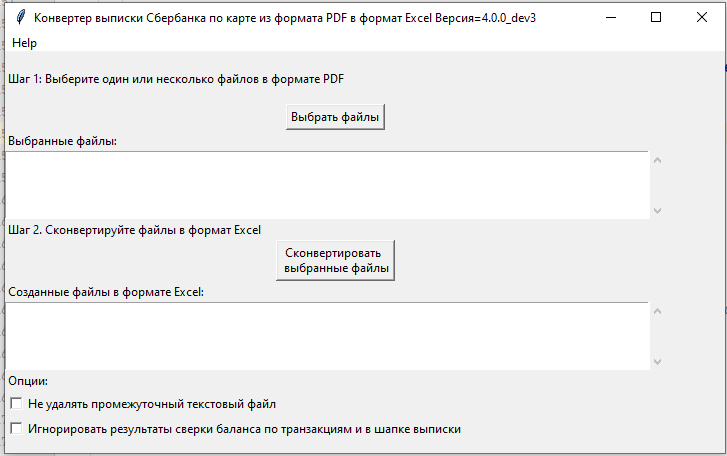
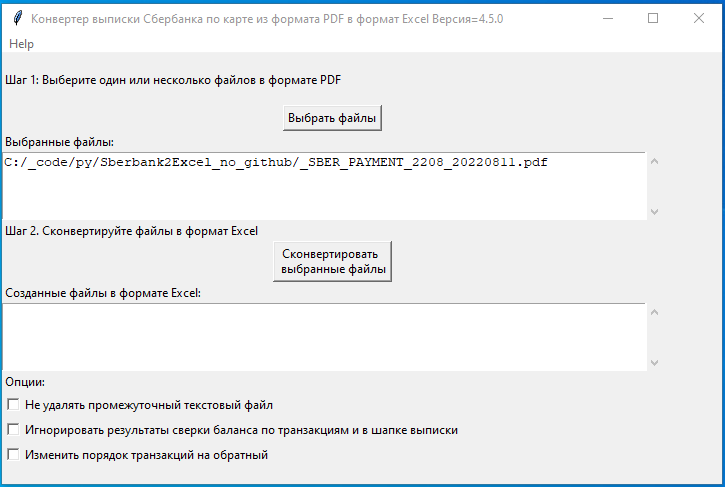
Added functionality "reverse transaction order": 	modified:   README.rst 	modified:   core/sberbankPDF2Excel.py 	modified:   core/sberbankPDF2ExcelGUI.py 	modified:   core/sberbankPDFtext2Excel.py 	modified:   core/version_info.py 	modified:   misc/Sberbank2Excel.PNG

Changed region(s): [[0.0, 0.0, 1.0, 1.0], [0.3641, 0.4912, 0.5462, 0.6447]]

diff --git a/core/sberbankPDFtext2Excel.py b/core/sberbankPDFtext2Excel.py
@@ -43,11 +43,24 @@ def sberbankPDFtext2Excel(input_txt_file_name:str,
                           output_file_name:str = None,
                           format = 'auto',
                           perform_balance_check = True,
-                          output_file_type='xlsx') -> str:
-    """
-    Функция конвертирует текстовый файл Сбербанка, полученный из выписки PDF в Excel или CSV форматы
-    Если output_file_name не задан, то он создаётся из input_txt_file_name путём удаления расширения
-    return: file name of the created file
+                          output_file_type='xlsx',
+                          reversed_transaction_order=False) -> str:
+    """ Функция конвертирует текстовый файл Сбербанка, полученный из выписки PDF в Excel или CSV форматы
+        Если output_file_name не задан, то он создаётся из input_txt_file_name путём удаления расширения
+
+    Args:
+        input_txt_file_name (str): имя входного текстового файла
+        output_file_name (str, optional): имя выходного файла. Defaults to None.
+        format (str, optional): формат входного файла. Defaults to 'auto'.
+        perform_balance_check (bool, optional): Проводить сверку баланса по трансакциям и по шапке. Defaults to True.
+        output_file_type (str, optional): Тип выходного файла. Defaults to 'xlsx'.
+        reversed_transaction_order (bool, optional): Изменить порядок трансакций на обратный. Defaults to False.
+
+    Raises:
+        exceptions.UserInputError: 
+
+    Returns:
+        str: file name of the created file
     """
 
     # creating output file name for Excel file, if not provided
@@ -65,6 +78,7 @@ def sberbankPDFtext2Excel(input_txt_file_name:str,
         extractor_type = determine_extractor_auto(file_text)
         print(r"Формат файла определён как " + extractor_type.__name__)
 
+    # checking whether format is one of the known formats
     else:
         for extractor in extractors.extractors_list:
             if extractor.__name__ == format:
@@ -109,21 +123,14 @@ def sberbankPDFtext2Excel(input_txt_file_name:str,
 
     df = utils.rename_sort_df(df = df,
                               columns_info=extractor.get_columns_info())
+    
+    if reversed_transaction_order:
+        df = df.iloc[::-1]  # reversing the order of transactions
 
     utils.write_df_to_file(df, output_file_name,
-                            extractor_name = extractor_type.__name__,
+                            extractor_name=extractor_type.__name__,
                             errors=error,
                             output_file_format=output_file_type)
-
-
-    # writer = pd.ExcelWriter(output_excel_file_name,
-    #                         engine='xlsxwriter',
-    #                         datetime_format='dd.mm.yyyy HH:MM')
-    #
-    # df.to_excel(writer, sheet_name='data', index=False)
-    #
-    # writer.save()
-    # writer.close()
 
     # print(f"Создан файл {output_file_name}")
 
@@ -141,6 +148,7 @@ def genarate_PDFtext2Excel_argparser()->argparse.ArgumentParser:
     parser.add_argument('-b','--balcheck', action='store_false', default=True, dest='perform_balance_check', help='Игнорировать результаты сверки баланса по транзакциям и в шапке выписки')
     parser.add_argument('-f', '--format', type=str,default='auto', dest='format', choices = extractors.get_list_extractors_in_text(),help = 'Формат выписки. Если не указан, определяется автоматически' )
     parser.add_argument('-t', '--type', type=str,default='xlsx', dest='output_file_type', choices = ["xlsx","csv"],help = 'Тип создаваемого файла' )
+    parser.add_argument('-r', '--reverse', action='store_true', default=False, dest='reversed_transaction_order', help='Изменить порядок транзакций на обратный')
 
     return parser
 
@@ -157,7 +165,8 @@ def main():
                           output_file_name = args.output_Excel_file_name,
                           format=args.format,
                           perform_balance_check = args.perform_balance_check,
-                          output_file_type=args.output_file_type)
+                          output_file_type=args.output_file_type,
+                          reversed_transaction_order=args.reversed_transaction_order)
 
 
 if __name__=='__main__':

diff --git a/core/sberbankPDF2Excel.py b/core/sberbankPDF2Excel.py
@@ -17,13 +17,24 @@ def sberbankPDF2Excel(input_file_name:str,
                       format:str= 'auto',
                       leave_intermediate_txt_file:str = False,
                       perform_balance_check = True,
-                      output_file_type:str="xlsx") ->str:
-    """
-    function converts pdf or text file with Sperbank extract to Excel or CSV format
-    input_file_name:
-    output_excel_file_name:
-    format: str - format of the Sberbank extract. If "auto" then tool tryes to work out the format itself
-    leave_intermediate_txt_file: if True, does not delete intermediate txt file
+                      output_file_type:str="xlsx",
+                      reversed_transaction_order=True) ->str:
+    """function converts pdf or text file with Sperbank extract to Excel or CSV format
+
+    Args:
+        input_file_name (str): _description_
+        output_file_name (Union[str, None], optional): _description_. Defaults to None.
+        format (str, optional): _description_. Defaults to 'auto'.
+        leave_intermediate_txt_file (str, optional): _description_. Defaults to False.
+        perform_balance_check (bool, optional): _description_. Defaults to True.
+        output_file_type (str, optional): _description_. Defaults to "xlsx".
+        reversed_transaction_order (bool, optional): _description_. Defaults to True.
+
+    Raises:
+        exceptions.InputFileStructureError: _description_
+
+    Returns:
+        str: file name of the created file
     """
 
     print(f"{format=}")
@@ -52,11 +63,12 @@ def sberbankPDF2Excel(input_file_name:str,
         if extension == ".pdf":
             pdf_2_txt_file(input_file_name, tmp_txt_file_name)
 
-        result = sberbankPDFtext2Excel(tmp_txt_file_name,
-                                       output_file_name,
-                                       format=format,
-                                       perform_balance_check = perform_balance_check,
-                                       output_file_type=output_file_type)
+        created_file_name = sberbankPDFtext2Excel(tmp_txt_file_name,
+                                                  output_file_name,
+                                                  format=format,
+                                                  perform_balance_check = perform_balance_check,
+                                                  output_file_type=output_file_type,
+                                                  reversed_transaction_order=reversed_transaction_order)
 
         if (not leave_intermediate_txt_file) and (not extension == ".txt"):
             os.remove(tmp_txt_file_name)
@@ -65,7 +77,7 @@ def sberbankPDF2Excel(input_file_name:str,
         raise
 
 
-    return result
+    return created_file_name
 
 
 def main():
@@ -84,7 +96,8 @@ def main():
                       format = args.format,
                       leave_intermediate_txt_file = args.leave_intermediate_txt_file,
                       perform_balance_check = args.perform_balance_check,
-                      output_file_type=args.output_file_type)
+                      output_file_type=args.output_file_type,
+                      reversed_transaction_order=args.reversed_transaction_order)
 
 if __name__ == '__main__':
     main()

diff --git a/core/sberbankPDF2ExcelGUI.py b/core/sberbankPDF2ExcelGUI.py
@@ -90,7 +90,7 @@ window.config(menu=menu)
  
 window.title(f'{version_info.NAME} Версия={version_info.VERSION}')
  
-window.geometry('720x400')
+window.geometry('720x430')
  
 Label(window, text="""
 Шаг 1: Выберите один или несколько файлов в формате PDF
@@ -116,7 +116,10 @@ leave_intermediate_txt_file = IntVar()
 Checkbutton(window, text="Не удалять промежуточный текстовый файл", variable=leave_intermediate_txt_file).grid(row=10, sticky=W)
 
 no_balance_check = IntVar()
-Checkbutton(window, text="Игнорировать результаты сверки баланса по транзакциям и в шапке выписки", variable=no_balance_check).grid(row=11, sticky=W)
+Checkbutton(window, text="Игнорировать результаты сверки баланса по трансакциям и в шапке выписки", variable=no_balance_check).grid(row=11, sticky=W)
+
+reversed_transaction_order = IntVar()
+Checkbutton(window, text="Изменить порядок трансакций на обратный", variable=reversed_transaction_order).grid(row=12, sticky=W)
 
 
 window.mainloop()

diff --git a/core/version_info.py b/core/version_info.py
@@ -1,4 +1,4 @@
 NAME='Конвертер выписки Сбербанка по карте из формата PDF в формат Excel'
 AUTHOR='ev2geny@gmail.com'
 PERMANENT_LOCATION='https://github.com/Ev2geny/Sberbank2Excel/releases/latest'
-VERSION='4.4.0'
+VERSION='4.5.0'

diff --git a/README.rst b/README.rst
@@ -47,7 +47,11 @@ Sberbank2Excel
 
 **Результат:** утилита создаст файлы с расширением .xlsx
 
-**Примечание:** опции **Не удалять промежуточный текстовый файл** и **Игнорировать результаты сверки баланса по транзакциям и в шапке выписки** используются в основном для отладки, сообщениях о проблемах или для тестирования.
+**Примечания:** 
+
+Опции **Не удалять промежуточный текстовый файл** и **Игнорировать результаты сверки баланса по транзакциям и в шапке выписки** используются в основном для отладки, сообщениях о проблемах или для тестирования.
+
+Опция **Обратный порядок трансакций** используется для того, чтобы изменить порядок трансакций в Excel файле на обратный. Т.е. в этом случае первая трансакция в PDF файле будет последней в Excel файле и наоборот.
 
 См. также `Приложение В. Запуск приложения из командной строки`_
 
